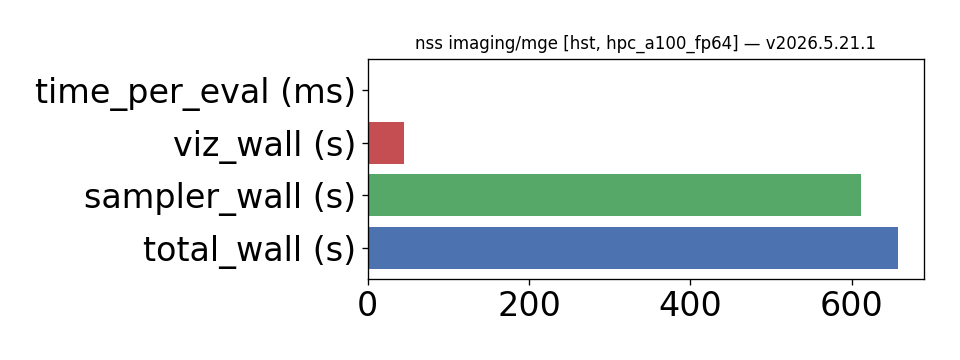
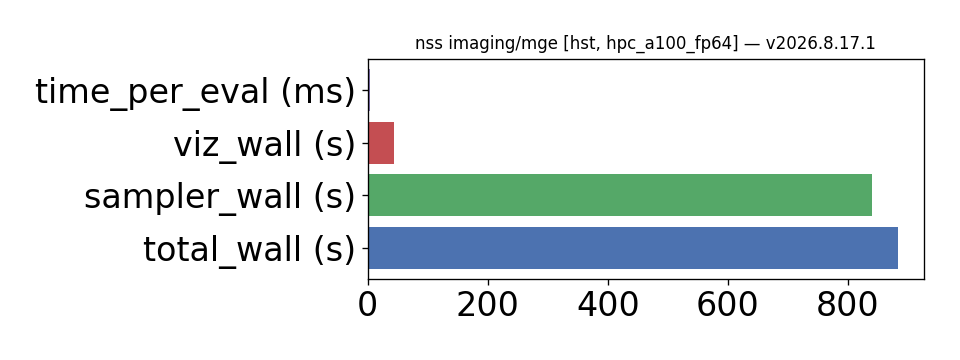
results: mainline af.NSS A100 anchor row — CP-2 complete (#149)
RAL job 338491 (A100 fp64, fork-era knobs, seed 42): mainline blackjax
1.6.2 via af.NSS reproduces the fork answer on imaging/mge/hst (max logL
31786.62, above the fork band; logZ 31698.85 — the +8.4-nat bias vs
Nautilus persists at inner=5, per H2.1) at ~1.35x the fork sampler wall
(839.6 s vs 612-633 s; 0.6x evals at 2.2x ms/eval). CP-2 verdict:
Phase 2 is a tuning exercise, not an integration project.

Ops notes recorded in RESULTS.md: job 335971 died at node start
(prolog/node failure, ~10 h queued, no output); resubmission 338490 hit
the completed-fit resume trap (identifier matched the fork-era output
dir; fork results re-emitted in 4 s under a current version stamp) —
fork output moved to hpc_a100_fp64_fork_era_backup/ on RAL and the
rerun sampled for real.

Claude-Session: https://claude.ai/code/session_019s6eAYCjAvn7tRNetAFadP

diff --git a/results/notes/inference/phase_02_nss_mainline/RESULTS.md b/results/notes/inference/phase_02_nss_mainline/RESULTS.md
@@ -53,6 +53,63 @@ Laptop-tier rule going forward: the RTX 2060 is a smoke/mechanics tier for
 NSS (chunked, no performance meaning); MGE-scale NSS wall-times come from
 RAL CPU and A100 only.
 
+## A100 anchor row — mainline af.NSS at fork-era knobs (2026-08-23)
+
+RAL job 338491 (A100 80GB PCIe, fp64, unchunked). Same knobs as the two
+recorded fork rows: n_live 200, inner steps 5, num_delete 50, dlogz −3,
+seed 42 — the diff is code-version only (v2026.5.21.1 fork blackjax →
+2026.8.17.1 + mainline blackjax 1.6.2 via `af.NSS`). Artifact:
+`results/searches/nss/imaging/mge/hst/hpc_hpc_a100_fp64.json` (overwrites
+the fork row of the same name; the fork numbers stay in git history and in
+the table below). All rows include ~43–46 s of viz (5 calls).
+
+| | fork run 1 (`hpc_a100_fp64`) | fork run 2 | **mainline** |
+|---|---:|---:|---:|
+| max logL | 31786.456 | 31786.298 | **31786.616** |
+| logZ | 31697.7 | 31700.39 | **31698.85** |
+| sampler wall (s) | 633.0 | 612.1 | **839.6** |
+| likelihood evals | 394,321 | 383,289 | **234,498** |
+| ms/eval | 1.61 | 1.60 | **3.58** |
+| posterior samples | — | 15,500 | 15,800 |
+
+**Verdict against the pre-registered criteria:**
+
+- **Completes to dlogz −3: PASS.** Clean end-to-end run, no chunking.
+- **max logL 31786.62 — matches the fork band (31786.3–31786.5), slightly
+  above it,** 0.17 nats below the Nautilus truth bar (31786.782). Same
+  best-fit solution (θ_E=1.5998, same shear).
+- **logZ 31698.85 — inside the fork band, still +8.4 nats above Nautilus
+  (31690.5).** H2.1's prediction holds: the bias *persists* at inner=5
+  with mainline code — it is not a fork artifact. The scan's ≥2d
+  inner-steps arms remain the pre-registered test for removing it.
+- **Wall: mainline is ~1.35× slower sampler-side at fork knobs** (839.6 s
+  vs 612–633 s), with a different execution profile: 0.6× the likelihood
+  evals at 2.2× the per-eval time. Caveat: ms/eval is sampler_wall /
+  evals, so if mainline accounts inner-kernel evals differently the
+  per-eval comparison is bookkeeping, not hardware — the honest headline
+  is the wall-clock ratio at matched knobs and matched answer. At these
+  knobs mainline NSS (882.8 s total) sits at rough parity with the
+  Nautilus A100 row (831 s) rather than the fork's mild win.
+
+**CP-2 is complete**: Phase 2 is confirmed a *tuning exercise, not an
+integration project* — mainline `af.NSS` reproduces the fork's answer on
+the production MGE cell on both GPU tiers; speed at default knobs is the
+thing the scan has to earn back.
+
+**Ops lessons (recorded because both will recur):** (i) job 335971 died at
+node start after ~10 h in queue (00:00:00 elapsed, no output/error file —
+prolog/node failure; resubmission of the identical script ran fine).
+(ii) The first resubmission (338490) hit the completed-fit resume trap:
+autofit's identifier hashes model+search config, so the identical-knob
+mainline run matched the fork-era output directory and re-emitted the
+stored fork results in ~4 s under a *current* version stamp — detectable
+only by `total_wall_s` and the "Fit Already Completed" log line. The
+fork-era output was moved to
+`output/searches/nss/imaging/mge/hst/hpc_a100_fp64_fork_era_backup/` on
+RAL and the rerun (338491) sampled for real. Any future same-knob
+cross-version rerun must clear or relocate the output dir first, and
+verify wall-time plausibility, never just the version stamp.
+
 ## Next (per PROGRAMME §4 Phase 2)
 
 - The scan: n_live {200, 500, 1000} × num_delete {0.1m, 0.25m, 0.5m} ×

diff --git a/results/notes/inference/PROGRAMME.md b/results/notes/inference/PROGRAMME.md
@@ -29,7 +29,7 @@ expectation · **[CONTRADICTED]** existing evidence pushed back on the brief ·
 | Phase 0(c) RAL artifact harvest | **complete** — local fork-NSS A100 artifacts committed (PR#147); RAL NFS harvest pulled 2026-08-19 (#149): job 331058 all four SMC arms (bridge validated: warm logZ within ±0.8 nats of the Nautilus bar; cold arm −179k with "Converged: yes"), 335003-5 NaN-counter arms, wsdev Nautilus pixgrad baselines | `phase_00_unblocking/RESULTS.md` + `phase_00_unblocking/ral_harvest/` |
 | Phase 0(d) commit plan + ledger structure | **complete** | PR#136 + PR#137 (2026-08-18) |
 | Phase 0(e) searches README dashboard loop | **complete** | PR#139 (2026-08-18): nested-layout scanner, 34 rows render, truth-bar rows verified |
-| Phase 2 NSS mainline re-tune | **entry in progress** — framework wiring + CP-2 GPU MGE smoke (#149, 2026-08-19/20); scan + Gate A pending | `phase_02_nss_mainline/RESULTS.md` |
+| Phase 2 NSS mainline re-tune | **entry complete (CP-2 ✅ 2026-08-23)** — wiring + laptop smoke + A100 anchor row: mainline matches the fork answer at fork knobs (max logL 31786.62, logZ bias +8.4 persists at inner=5 per H2.1) but is ~1.35× slower sampler-wall; scan + Gate A pending | `phase_02_nss_mainline/RESULTS.md` |
 | Phases 1, 3–13 | not started | — |
 | Gates A–F | open | — |
 
@@ -847,15 +847,16 @@ Maximum information before large A100 commitment — strictly ordered:
 2. **CP-2 · blackjax 1.6.2 upgrade + mainline NSS smoke on MGE** (~1 day,
    laptop GPU). Establishes whether Phase 2 is a tuning exercise or an
    integration project.
-   **✅ Environment half COMPLETE — all four environments (cloud, local
-   venv, local GPU venv, RAL) on 1.6.2 with the full smoke (incl. `af.NSS`
-   end-to-end) passing; `af.NSS` re-mainlined (PyAutoFit PR#1492, merged
-   2026-08-18). GPU half: laptop mechanics VALIDATED 2026-08-20 (launches/
-   jits/samples the production MGE cell; 6 GB cards need `chunk_size`;
-   fp64 wall infeasible on GeForce 1:32) — the A100 anchor row at
-   identical fork-era knobs is the remaining artifact
-   (`hpc/batch_gpu/submit_search_nss_imaging_mge_a100_hst_fp64`). See
-   `phase_02_nss_mainline/RESULTS.md`.**
+   **✅ COMPLETE (2026-08-23). Environment: all four environments (cloud,
+   local venv, local GPU venv, RAL) on 1.6.2 with the full smoke (incl.
+   `af.NSS` end-to-end) passing; `af.NSS` re-mainlined (PyAutoFit PR#1492,
+   merged 2026-08-18). GPU: laptop mechanics validated 2026-08-20 (6 GB
+   cards need `chunk_size`; fp64 wall infeasible on GeForce 1:32); A100
+   anchor row at identical fork-era knobs landed 2026-08-23 (RAL job
+   338491) — mainline reproduces the fork answer (max logL 31786.62; logZ
+   bias +8.4 persists at inner=5, per H2.1) at ~1.35× the fork's sampler
+   wall. Verdict: Phase 2 is a tuning exercise, not an integration
+   project. See `phase_02_nss_mainline/RESULTS.md`.**
 3. **CP-3 · Prodigy MGE reliability scan ± PositionsLH** (RAL CPU + laptop
    GPU; the single highest-information experiment). n_starts {16, 64, 256} ×
    5 seeds × positions {off, on} → measures p_hit, tests H3.1/H3.2/H4.1

diff --git a/scripts/misc/searches/README.md b/scripts/misc/searches/README.md
@@ -47,7 +47,7 @@ of PyAutoFit machinery is exercised and measured.
 | `nautilus` | `point_source/source_plane_tensor/near_caustic` | `hpc_a100_fp64` | 34.5 | -8.9 | 270.32 s | 23,400 | 9.3 ms | v2026.7.23.1 |
 | `nautilus` | `point_source/source_plane_tensor/simple` | `hpc_a100_fp64` | 15.3 | -11.8 | 184.36 s | 14,900 | 9.0 ms | v2026.7.23.1 |
 | `nss` | `imaging/delaunay/hst` | `hpc_a100_fp64` | 30,622.2 | 30,567.8 | 29770.41 s | 206,448 | 144.0 ms | v2026.5.21.1 |
-| `nss` | `imaging/mge/hst` | `hpc_a100_fp64` | 31,786.5 | 31,697.7 | 679.40 s | 394,321 | 1.6 ms | v2026.5.21.1 |
+| `nss` | `imaging/mge/hst` | `hpc_a100_fp64` | 31,786.6 | 31,698.9 | 882.78 s | 234,498 | 3.6 ms | v2026.8.17.1 |
 | `nss` | `imaging/pixelization/hst` | `hpc_a100_fp64` | 29,142.5 | 29,078.9 | 19190.01 s | 266,043 | 72.0 ms | v2026.5.21.1 |
 <!-- END auto-table:searches -->
 
